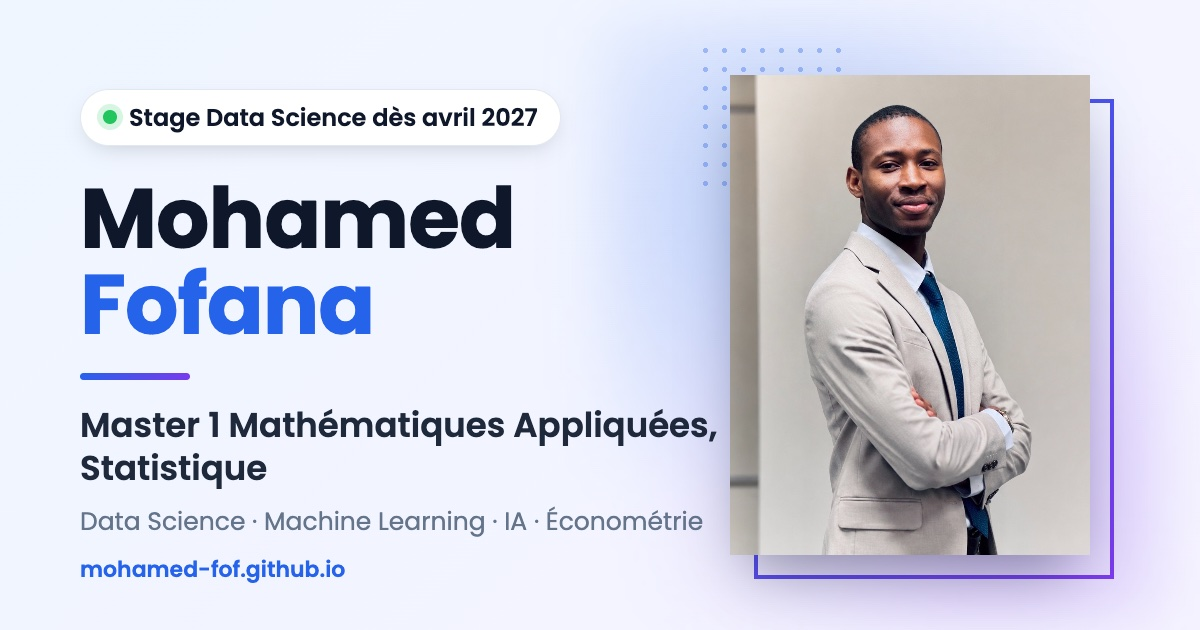
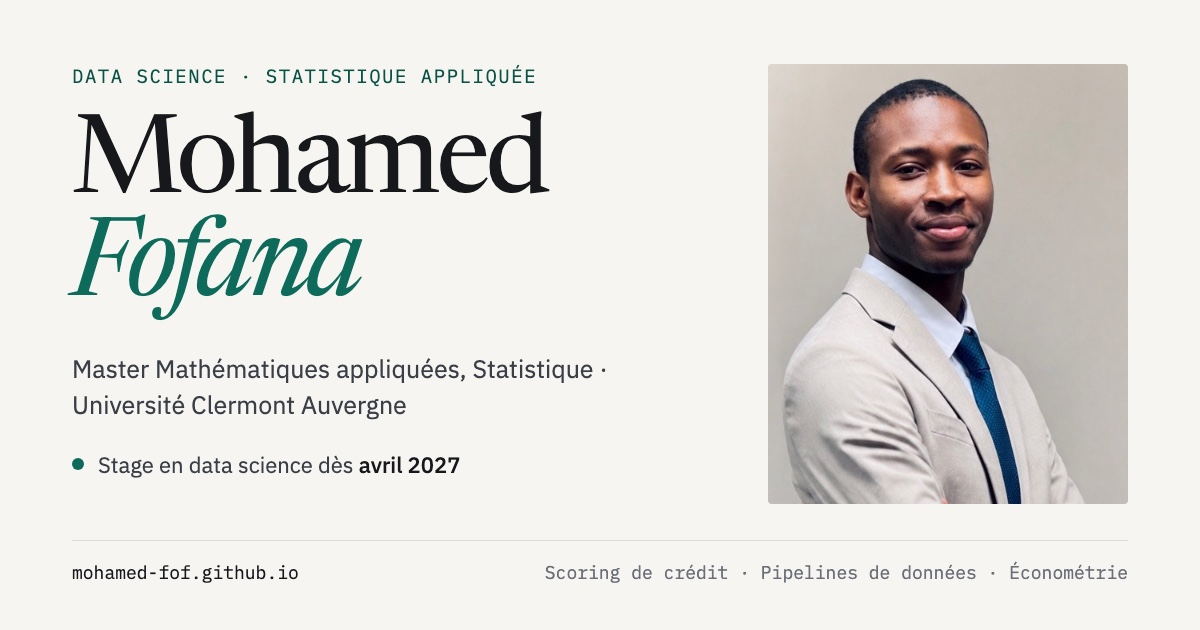
Nouvelle image de partage (LinkedIn) et icône d'écran d'accueil aux couleurs du nouveau design

diff --git a/index.html b/index.html
@@ -20,16 +20,20 @@
   <meta property="og:url" content="https://mohamed-fof.github.io/" />
   <meta property="og:title" content="Mohamed Fofana — Data Science &amp; Statistique" />
   <meta property="og:description" content="Master Mathématiques Appliquées, Statistique. Scoring de crédit déployé, pipeline de données e-commerce, article publié. Stage en data science dès avril 2027." />
-  <meta property="og:image" content="https://mohamed-fof.github.io/og-image.jpg" />
+  <meta property="og:image" content="https://mohamed-fof.github.io/og-image.jpg?v=2" />
+  <meta property="og:image:secure_url" content="https://mohamed-fof.github.io/og-image.jpg?v=2" />
+  <meta property="og:image:type" content="image/jpeg" />
   <meta property="og:image:width" content="1200" />
   <meta property="og:image:height" content="630" />
   <meta property="og:image:alt" content="Mohamed Fofana — Master Mathématiques Appliquées, Statistique — stage en data science dès avril 2027" />
   <meta property="og:locale" content="fr_FR" />
   <meta property="og:site_name" content="Mohamed Fofana" />
   <meta name="twitter:card" content="summary_large_image" />
-  <meta name="twitter:image" content="https://mohamed-fof.github.io/og-image.jpg" />
+  <meta name="twitter:title" content="Mohamed Fofana — Data Science &amp; Statistique" />
+  <meta name="twitter:description" content="Master Mathématiques Appliquées, Statistique. Scoring de crédit déployé, pipeline de données e-commerce, article publié. Stage en data science dès avril 2027." />
+  <meta name="twitter:image" content="https://mohamed-fof.github.io/og-image.jpg?v=2" />
   <link rel="icon" href="favicon.svg" type="image/svg+xml" />
-  <link rel="apple-touch-icon" href="og-image.jpg" />
+  <link rel="apple-touch-icon" href="apple-touch-icon.png" />
 
   <link rel="preconnect" href="https://fonts.googleapis.com" />
   <link rel="preconnect" href="https://fonts.gstatic.com" crossorigin />
